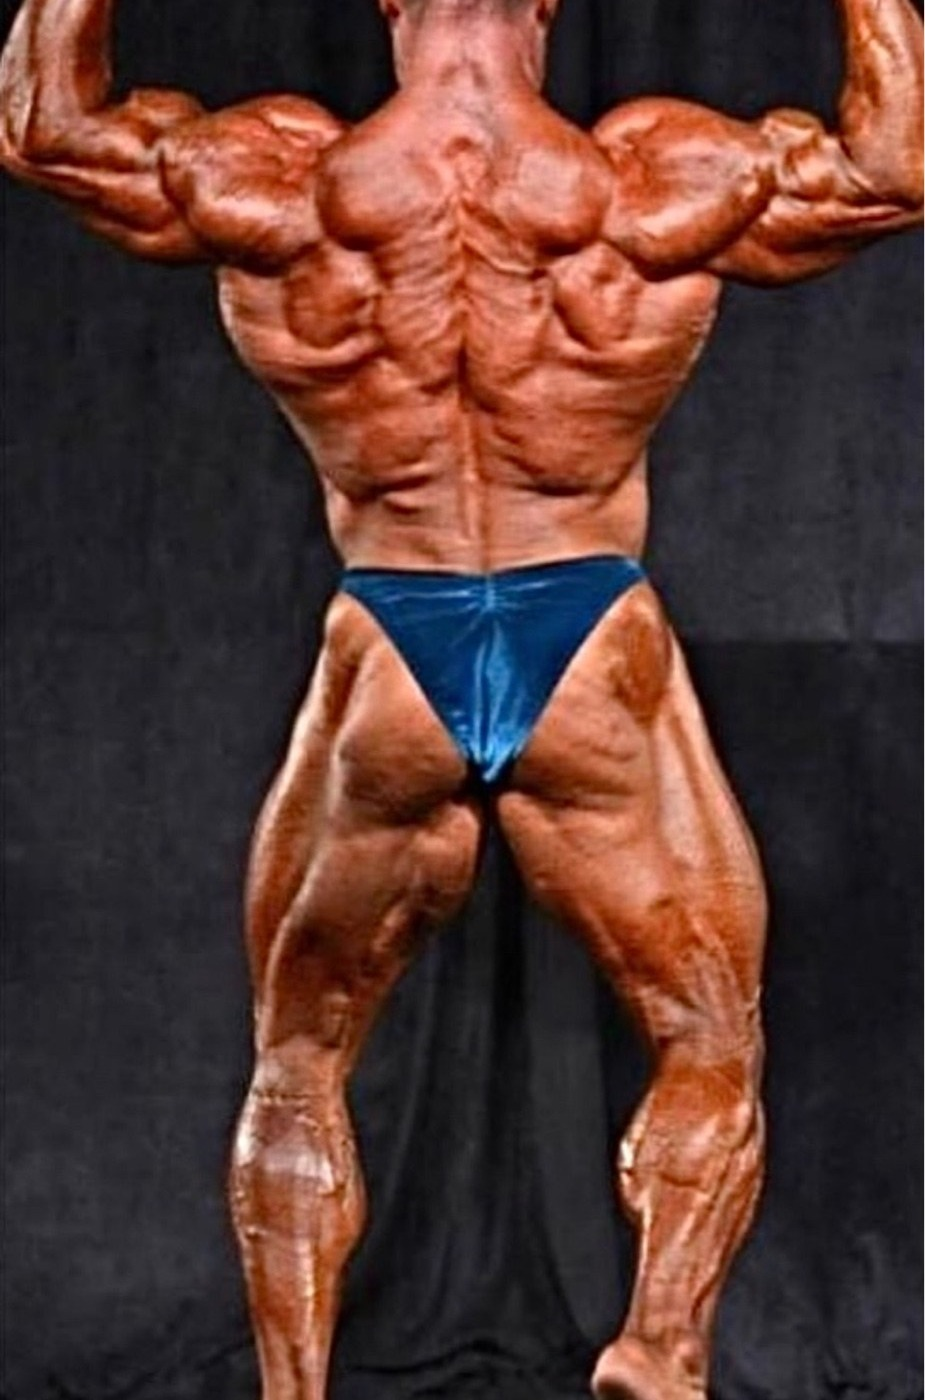
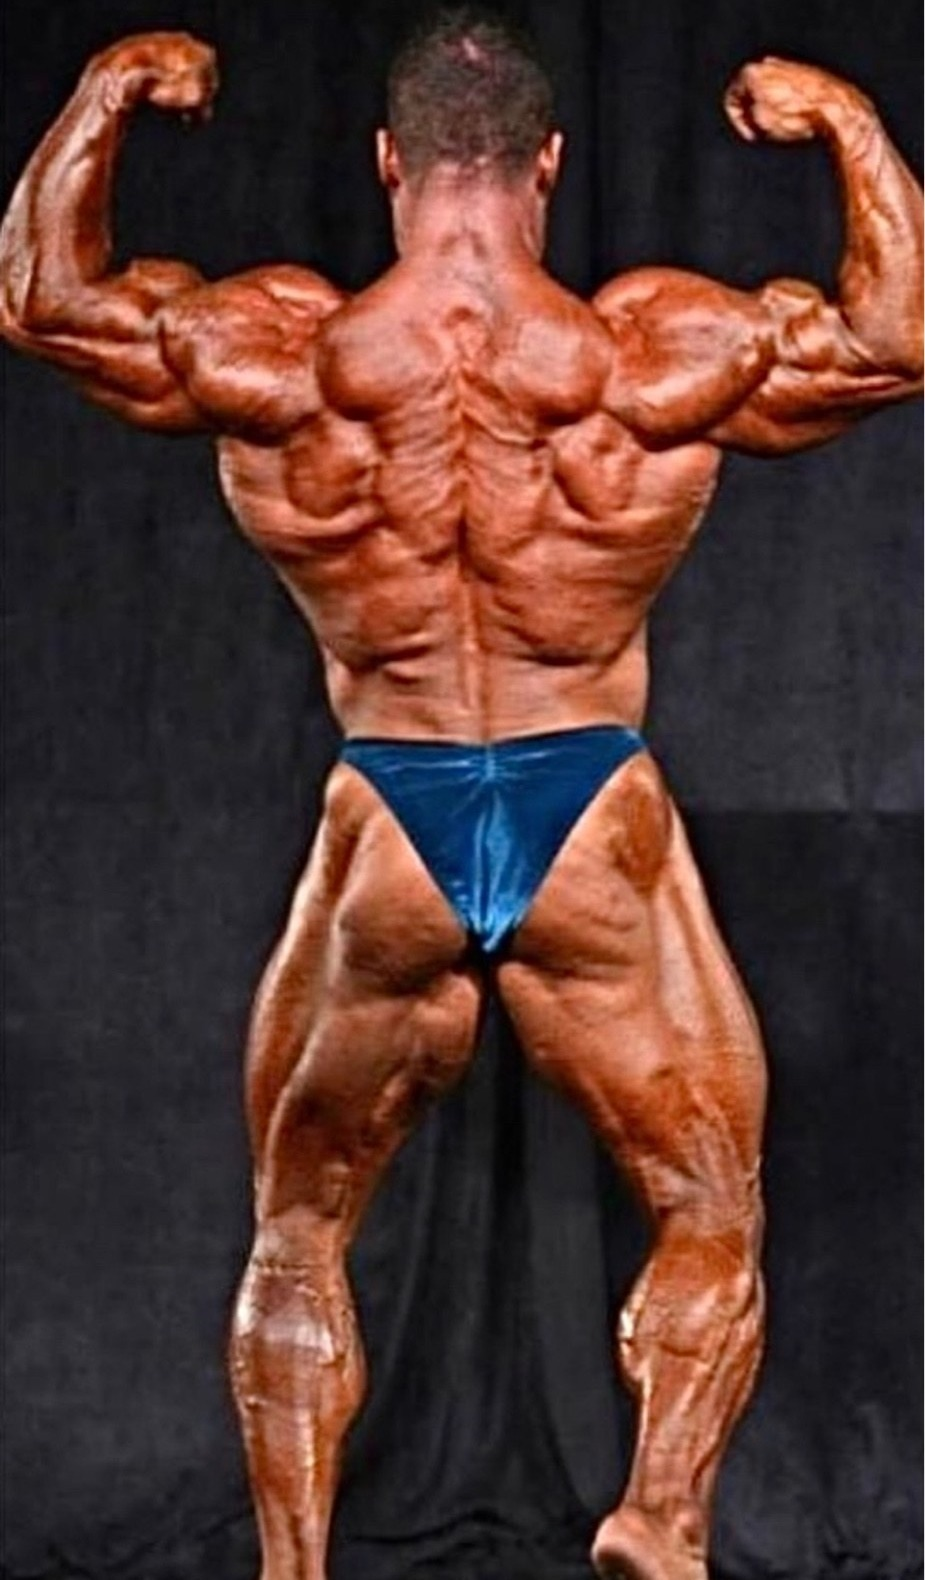
Fix photo cropping and remove duplicate gallery entry
- Remove Wings of Strength duplicate (same as Chicago Pro photo)
- Swap most muscular to full-body version (gallery-most-muscular-stage.jpg)
- Crop IG chrome from champion-2024 (profile icon, 1/4 counter)
- Re-crop Muscular Development shots: full body visible, MD logo removed
- Back dbl bicep & side chest now show head to calves cleanly

https://claude.ai/code/session_01Yabx9uNFuZQ9oobBMWA1fP

diff --git a/index.html b/index.html
@@ -1030,7 +1030,7 @@ img[loading="lazy"]{opacity:0;transition:opacity .6s var(--ease)}img[loading="la
       <!-- STAGE — newest to oldest -->
 
       <div class="gal-item reveal" onclick="openLB(this)" role="button" tabindex="0" onkeydown="if(event.key==='Enter'||event.key===' '){event.preventDefault();openLB(this)}">
-        <img src="img/gallery-most-muscular-crab.jpg" alt="Mike Ely most muscular pose on stage" loading="lazy" style="object-position:center 15%">
+        <img src="img/gallery-most-muscular-stage.jpg" alt="Mike Ely most muscular pose on stage" loading="lazy" style="object-position:center 15%">
         <div class="gal-label">Most Muscular — Stage</div>
       </div>
 
@@ -1044,10 +1044,6 @@ img[loading="lazy"]{opacity:0;transition:opacity .6s var(--ease)}img[loading="la
         <div class="gal-label">Chicago Pro, 2015</div>
       </div>
 
-      <div class="gal-item gal-landscape reveal" onclick="openLB(this)" role="button" tabindex="0" onkeydown="if(event.key==='Enter'||event.key===' '){event.preventDefault();openLB(this)}">
-        <img src="img/gallery-wings-stage.jpg" alt="Mike Ely back double bicep under stage lights — Wings of Strength" loading="lazy" style="object-position:center center">
-        <div class="gal-label">Wings of Strength</div>
-      </div>
 
       <div class="gal-item gal-landscape reveal" onclick="openLB(this)" role="button" tabindex="0" onkeydown="if(event.key==='Enter'||event.key===' '){event.preventDefault();openLB(this)}">
         <img src="img/gallery-stage-2014.jpg" alt="Mike Ely on stage 2014" loading="lazy" style="object-position:center center">
